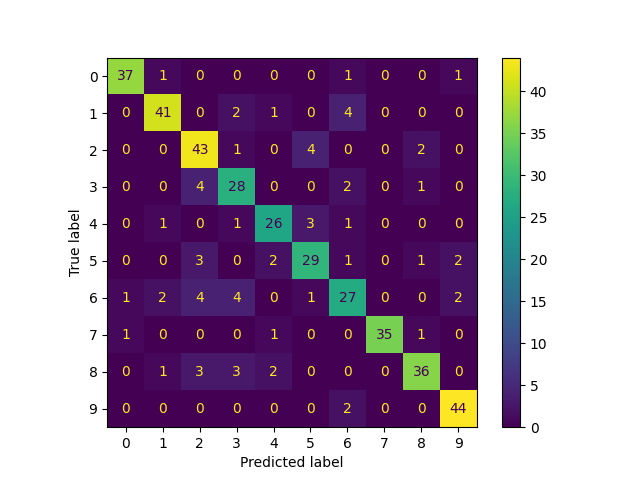
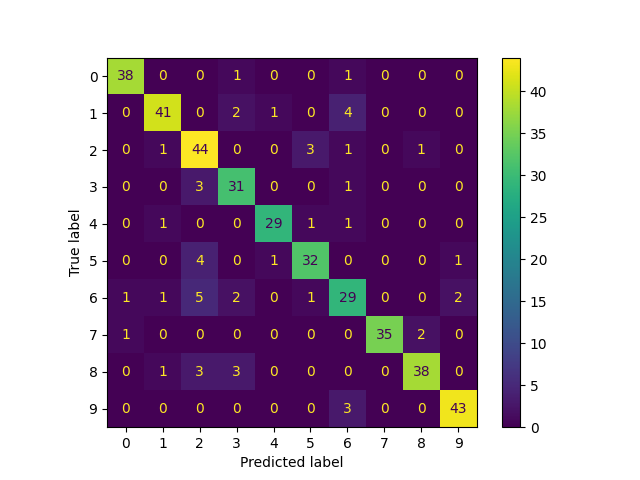
small changes vol2

diff --git a/Assignment 2/nn_classification_sklearn.py b/Assignment 2/nn_classification_sklearn.py
@@ -56,7 +56,7 @@ def train_nn(X_train: np.ndarray, y_train: np.ndarray) -> MLPClassifier:
     for n_hidden in num_hidden:
         print(f'The number of neurons in one hidden layer: {n_hidden}')
 
-        mlp_model = MLPClassifier(solver='adam', max_iter=500, random_state=1, hidden_layer_sizes=n_hidden)
+        mlp_model = MLPClassifier(solver='adam', max_iter=500, random_state=1, hidden_layer_sizes=(n_hidden,))
         mlp_model.fit(X_train, y_train)
 
         prediction_train = mlp_model.predict(X_train)
@@ -112,13 +112,13 @@ def train_nn_with_regularization(X_train: np.ndarray, y_train: np.ndarray) -> ML
         for i in range(3):
             if i == 0:
                 print(f'The number of neurons in one hidden layer: {n_hidden}, alpha: {regularization[i][0]}')
-                mlp_model = MLPClassifier(solver='adam', max_iter=500, random_state=1, hidden_layer_sizes=n_hidden, alpha=regularization[i][0])
+                mlp_model = MLPClassifier(solver='adam', max_iter=500, random_state=1, hidden_layer_sizes=(n_hidden,), alpha=regularization[i][0])
             elif i == 1:
                 print(f'The number of neurons in one hidden layer: {n_hidden}, early_stopping: {regularization[i][1]}')
-                mlp_model = MLPClassifier(solver='adam', max_iter=500, random_state=1, hidden_layer_sizes=n_hidden,early_stopping=regularization[i][1])
+                mlp_model = MLPClassifier(solver='adam', max_iter=500, random_state=1, hidden_layer_sizes=(n_hidden,),early_stopping=regularization[i][1])
             elif i == 2:
                 print(f'The number of neurons in one hidden layer: {n_hidden}, alpha: {regularization[i][0]}, early_stopping: {regularization[i][1]}')
-                mlp_model = MLPClassifier(solver='adam', max_iter=500, random_state=1, hidden_layer_sizes=n_hidden,
+                mlp_model = MLPClassifier(solver='adam', max_iter=500, random_state=1, hidden_layer_sizes=(n_hidden,),
                                           early_stopping=regularization[i][1], alpha=regularization[i][0])
             mlp_model.fit(X_train, y_train)
 
@@ -209,7 +209,7 @@ def perform_grid_search(X_train: np.ndarray, y_train: np.ndarray) -> MLPClassifi
     parameters = {
         'alpha' : [0.0, 0.1, 1.0],
         'solver': ['lbfgs', 'adam'],
-        'hidden_layer_sizes' : [(100,), (200)]
+        'hidden_layer_sizes' : [(100,), (200,)]
     }
 
     mlp_model = MLPClassifier(max_iter=100, random_state=42)
